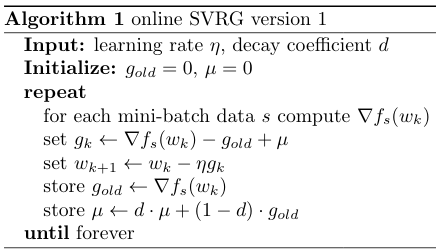
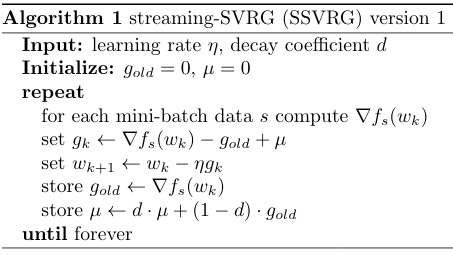
update streaming-SVRG

Changed region(s): [[0.0, 0.3347, 1.0, 1.0], [0.0, 0.0, 1.0, 0.3068]]

diff --git a/_posts/2018-05-07-SVRG论文阅读笔记.md b/_posts/2018-05-07-SVRG论文阅读笔记.md
@@ -161,12 +161,12 @@ Finito(Finito: A faster, permutable incremental gradientmethod for big data prob
 
 ![online SVRG算法](/media/pics/2018-05-07-SVRG-online-v1.png)
 
-对上面 online SVRG v1 算法做几点说明：
+对上面  SSVRG-v1 算法做几点说明：
 
 - $$g_{old}$$ 来自上一次的梯度，这里可以不要求是同一个 mini batch 的数据，其中的 $$w_k$$ 也可以是被其他 worker 更新后的值，因此，这个算法可以适用于多 worker 异步更新的场合，因为我们可以假设在很短的一个时间内，所有 worker 拿到的数据都是独立同分布的。
 - 为了获得上文第二部分所说的 $$\mathbb{E}Y$$，也就是上文其他算法中的 $$\nabla R_n(w_k)$$，我们使用了一个滑动加权平均的方式，其中参数 $$d$$ 是为了控制历史值与当前值的权重分配。
 
-为什么我们还要指定学习率 $$\eta$$ 和衰减系数 $$d$$ 呢？已经有很多算法可以免去这两个超参数了，我们可以把他们的思想拿过来，和上面的算法进行综合，得到一个真正免超参，同时又能降低梯度估计方差，提升学习率的算法，这就是我们后续提出的 online SVRG v2 算法，关于这个算法我们下一篇再写，这里写不下了。
+为什么我们还要指定学习率 $$\eta$$ 和衰减系数 $$d$$ 呢？已经有很多算法可以免去这两个超参数了，我们可以把他们的思想拿过来，和上面的算法进行综合，得到一个真正免超参，同时又能降低梯度估计方差，提升学习率的算法，这就是我们后续提出的 SSVRG-v2 算法，关于这个算法以及数学上的一些证明我们下一篇再写。
 
 
 
